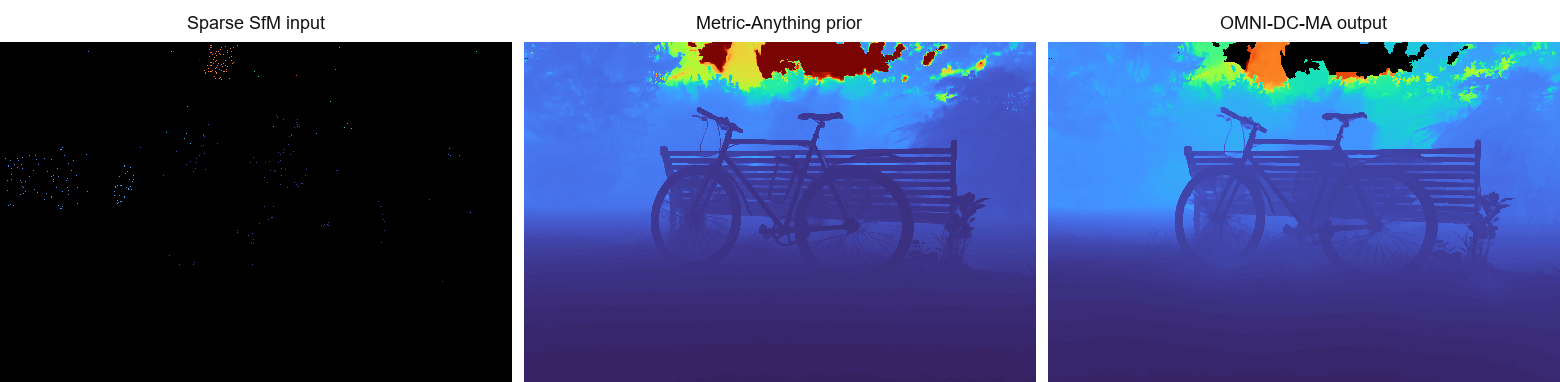
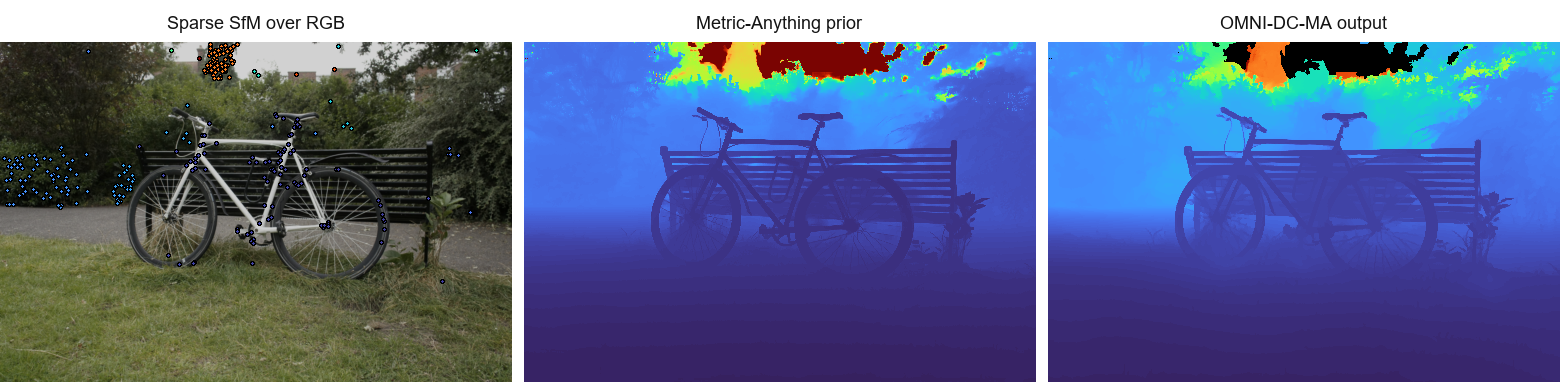
Show sparse SfM overlay in README preview

Changed region(s): [[0.0, 0.0288, 0.3385, 1.0]]

diff --git a/README.md b/README.md
@@ -5,10 +5,10 @@
 **TL;DR:** OMNI-DC-MA is an inference-focused depth-completion repo for turning RGB images plus sparse COLMAP/SfM depth anchors into dense metric depth maps. It is a cleaned-up, Windows/CUDA-13-ready fork of the current OMNI-DC inference path with a Metric-Anything depth prior, higher-certainty COLMAP anchor generation, TensorRT hooks, batch processing, and release-hosted model assets.
 
 <p align="center">
-  <img src="docs/assets/bicycle_sparse_ma_completed_sky10.png" alt="Sparse bicycle COLMAP/SfM depth anchors, COLMAP-intrinsics-scaled Metric-Anything depth-map result, and completed OMNI-DC-MA depth map with sky/far mask applied" width="100%">
+  <img src="docs/assets/bicycle_sparse_ma_completed_sky10.png" alt="Sparse bicycle COLMAP/SfM depth anchors overlaid on the RGB image, COLMAP-intrinsics-scaled Metric-Anything depth-map result, and completed OMNI-DC-MA depth map with sky/far mask applied" width="100%">
 </p>
 
-<p align="center"><em>Example bicycle frame: globally filtered sparse metric SfM anchors projected to 2D, the COLMAP-intrinsics-scaled Metric-Anything depth-map result, and the regenerated 512 px OMNI-DC-MA completed depth map with the 1.0x prior sky/far mask applied. Valid depths use the same Turbo color map on a fixed 0-75 m metric scale; masked zero-depth pixels render black.</em></p>
+<p align="center"><em>Example bicycle frame: globally filtered sparse metric SfM anchors overlaid on the original RGB image, the COLMAP-intrinsics-scaled Metric-Anything depth-map result, and the regenerated 512 px OMNI-DC-MA completed depth map with the 1.0x prior sky/far mask applied. Sparse points and valid depths use the same Turbo color map on a fixed 0-75 m metric scale; masked zero-depth pixels render black.</em></p>
 
 ## What This Repo Is For
 